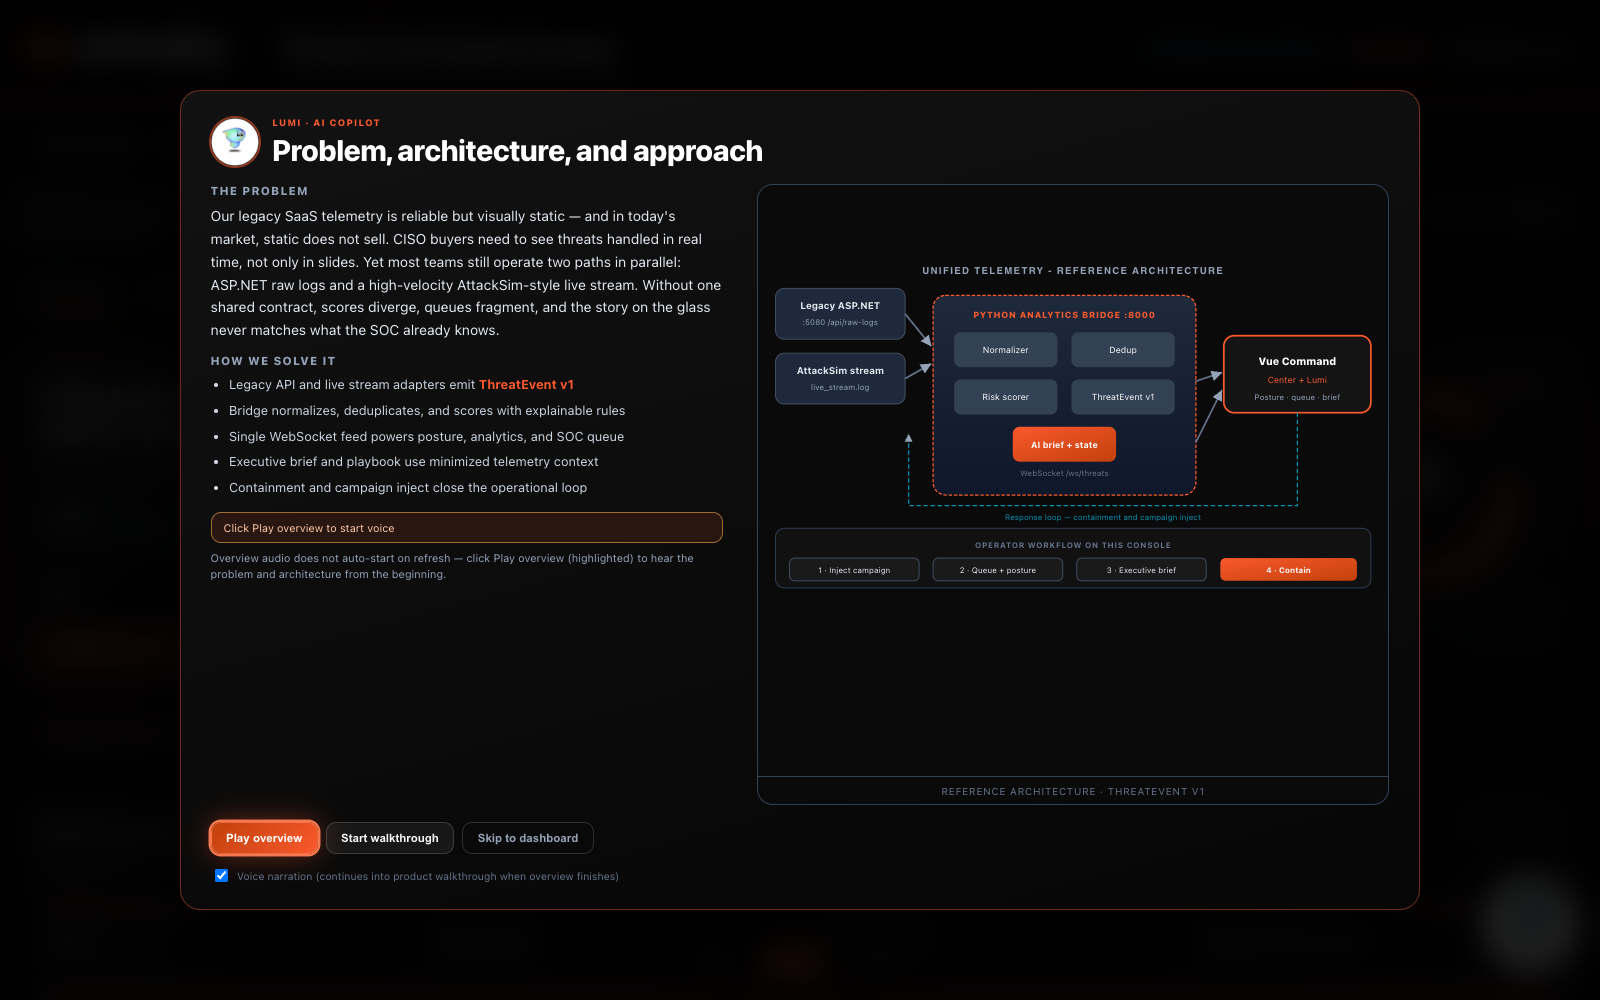
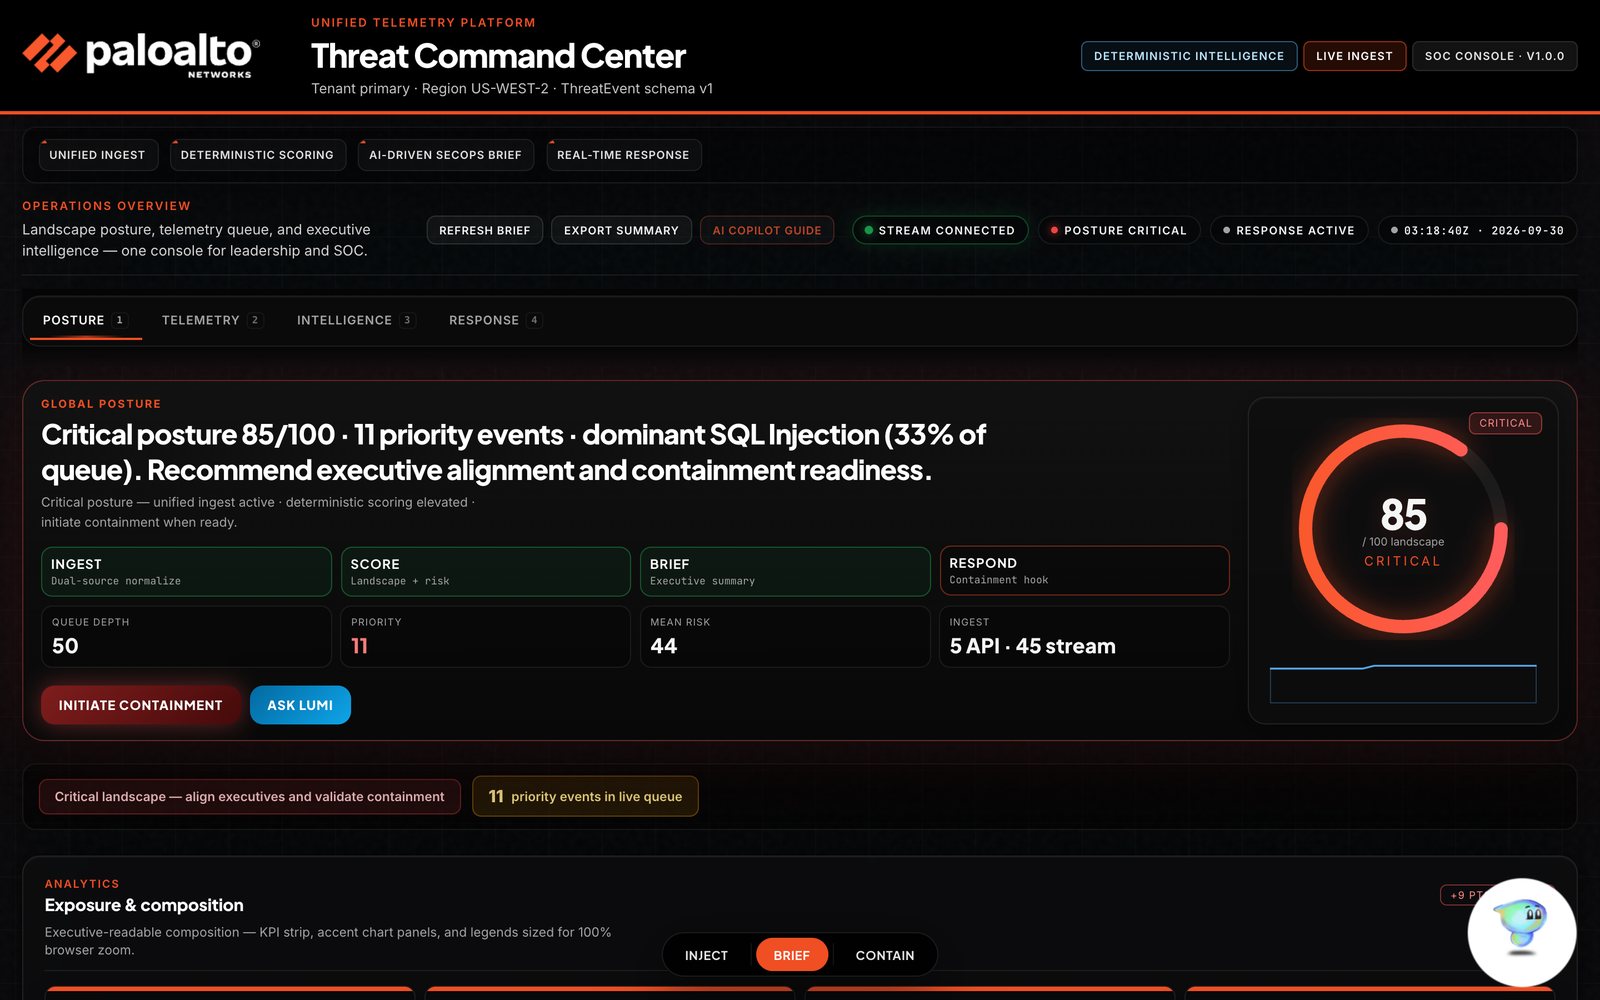
README screenshots: fix duplicate image, recapture at 2x from the live site, add the operations row.
command-center-critical.png had been overwritten with the Lumi intro, so
both table cells showed the same image.

diff --git a/README.md b/README.md
@@ -114,6 +114,10 @@ Then open **http://127.0.0.1:8000** (the script opens it automatically on macOS)
 |---|---|
 | ![Lumi intro](docs/screenshots/lumi-intro.png) | ![Critical posture](docs/screenshots/command-center-critical.png) |
 
+**Operations row:** live threat queue with per-source health, the executive brief and playbook, and campaign injection.
+
+![Live threat queue, executive brief and playbook, campaign injection](docs/screenshots/operations-row.png)
+
 ---
 
 ## 4. Architecture
